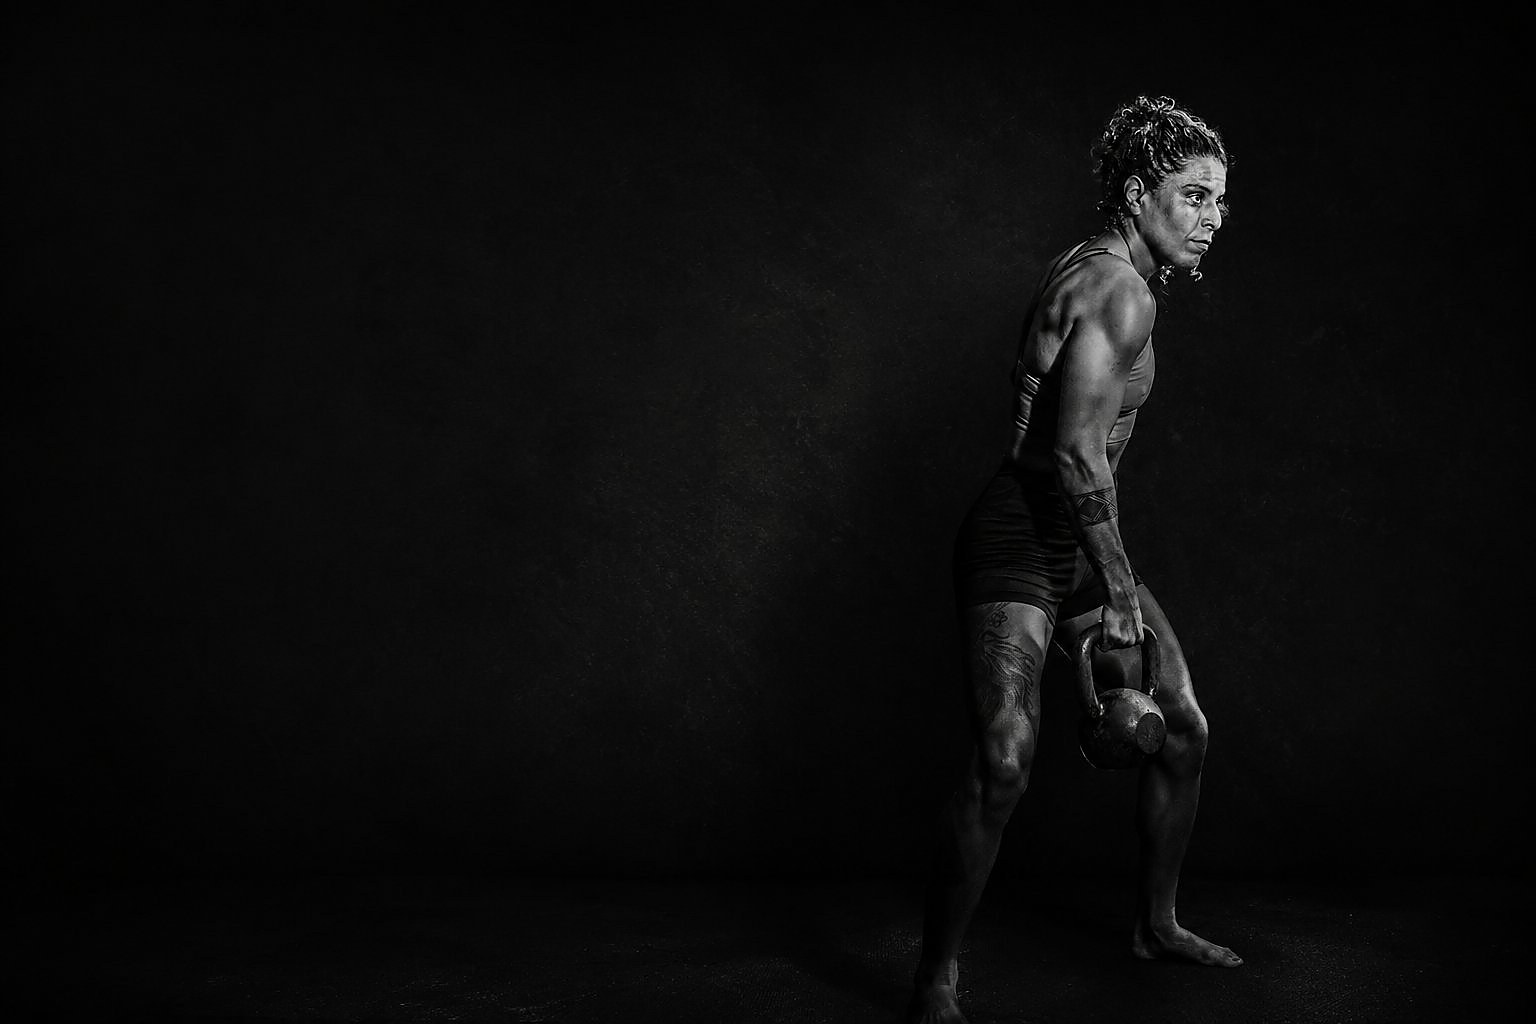
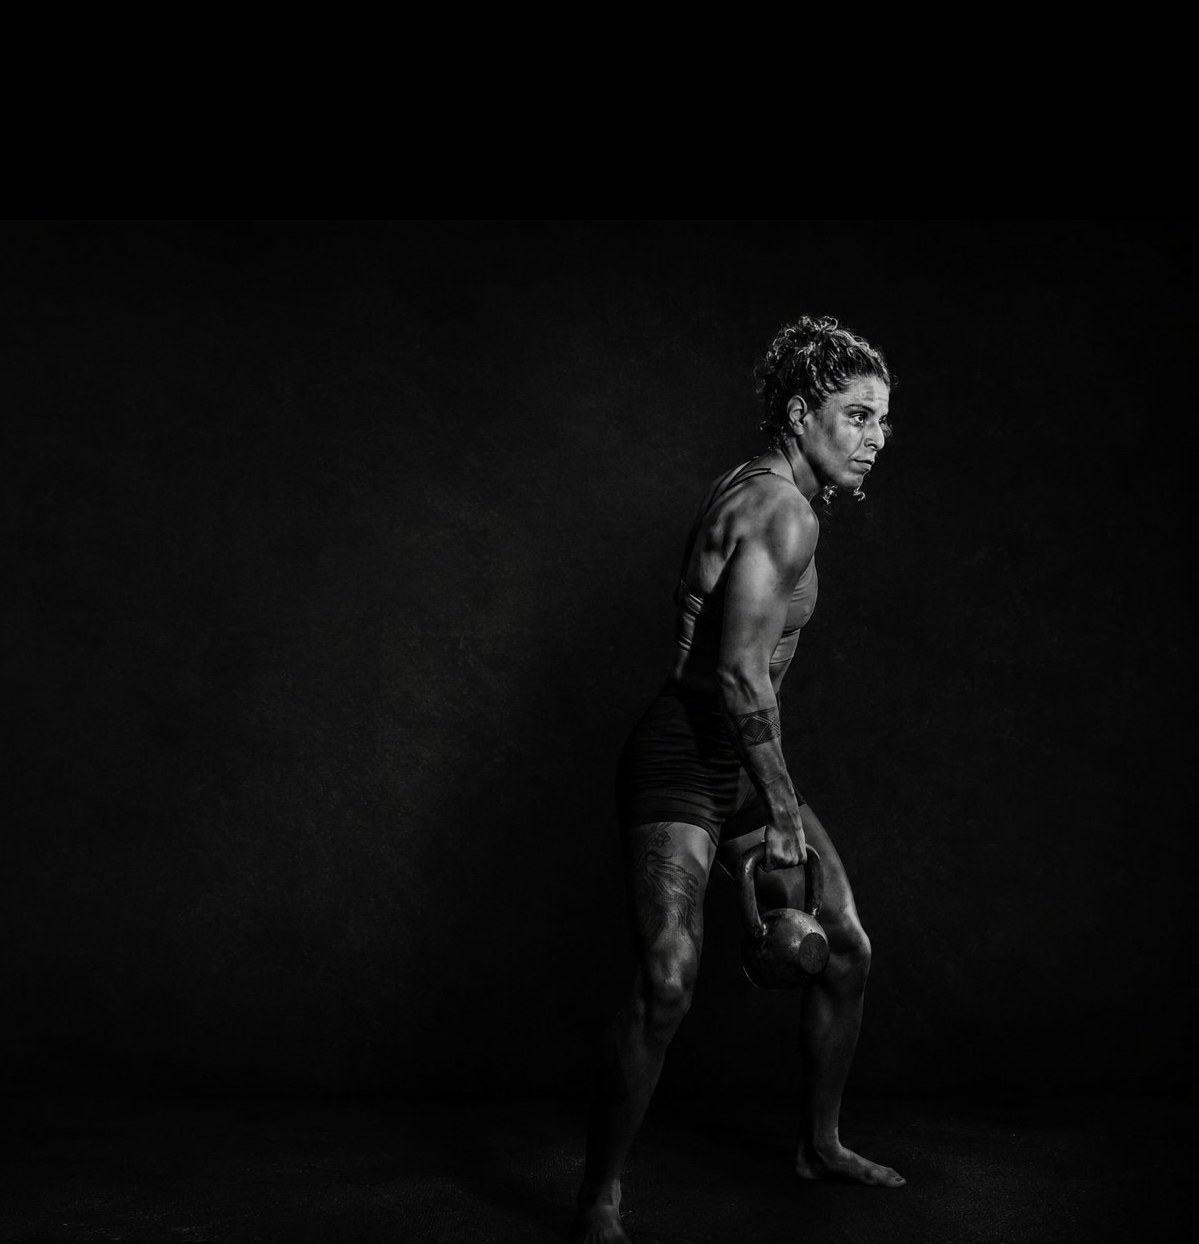
ajusta posicionamento foto hero hannette

diff --git a/index.html b/index.html
@@ -48,8 +48,8 @@
     #hero {
       min-height: 100vh;
       background:
-        linear-gradient(105deg, rgba(10,20,15,0.75) 40%, rgba(10,20,15,0.1) 100%),
-        url('img/hannette-hero.jpg') center right/cover no-repeat;
+        linear-gradient(105deg, rgba(10,20,15,0.75) 25%, rgba(10,20,15,0.1) 100%),
+    url('img/hannette-hero.jpg') center right/cover no-repeat;
       display: flex; align-items: center; position: relative;
     }
     .hero-tag { display: inline-block; background: var(--gold); color: var(--dark); font-family: var(--font-body); font-weight: 700; font-size: 0.82rem; letter-spacing: 0.2em; text-transform: uppercase; padding: 0.35rem 1rem; margin-bottom: 1.2rem; clip-path: polygon(0 0,100% 0,96% 100%,0 100%); }